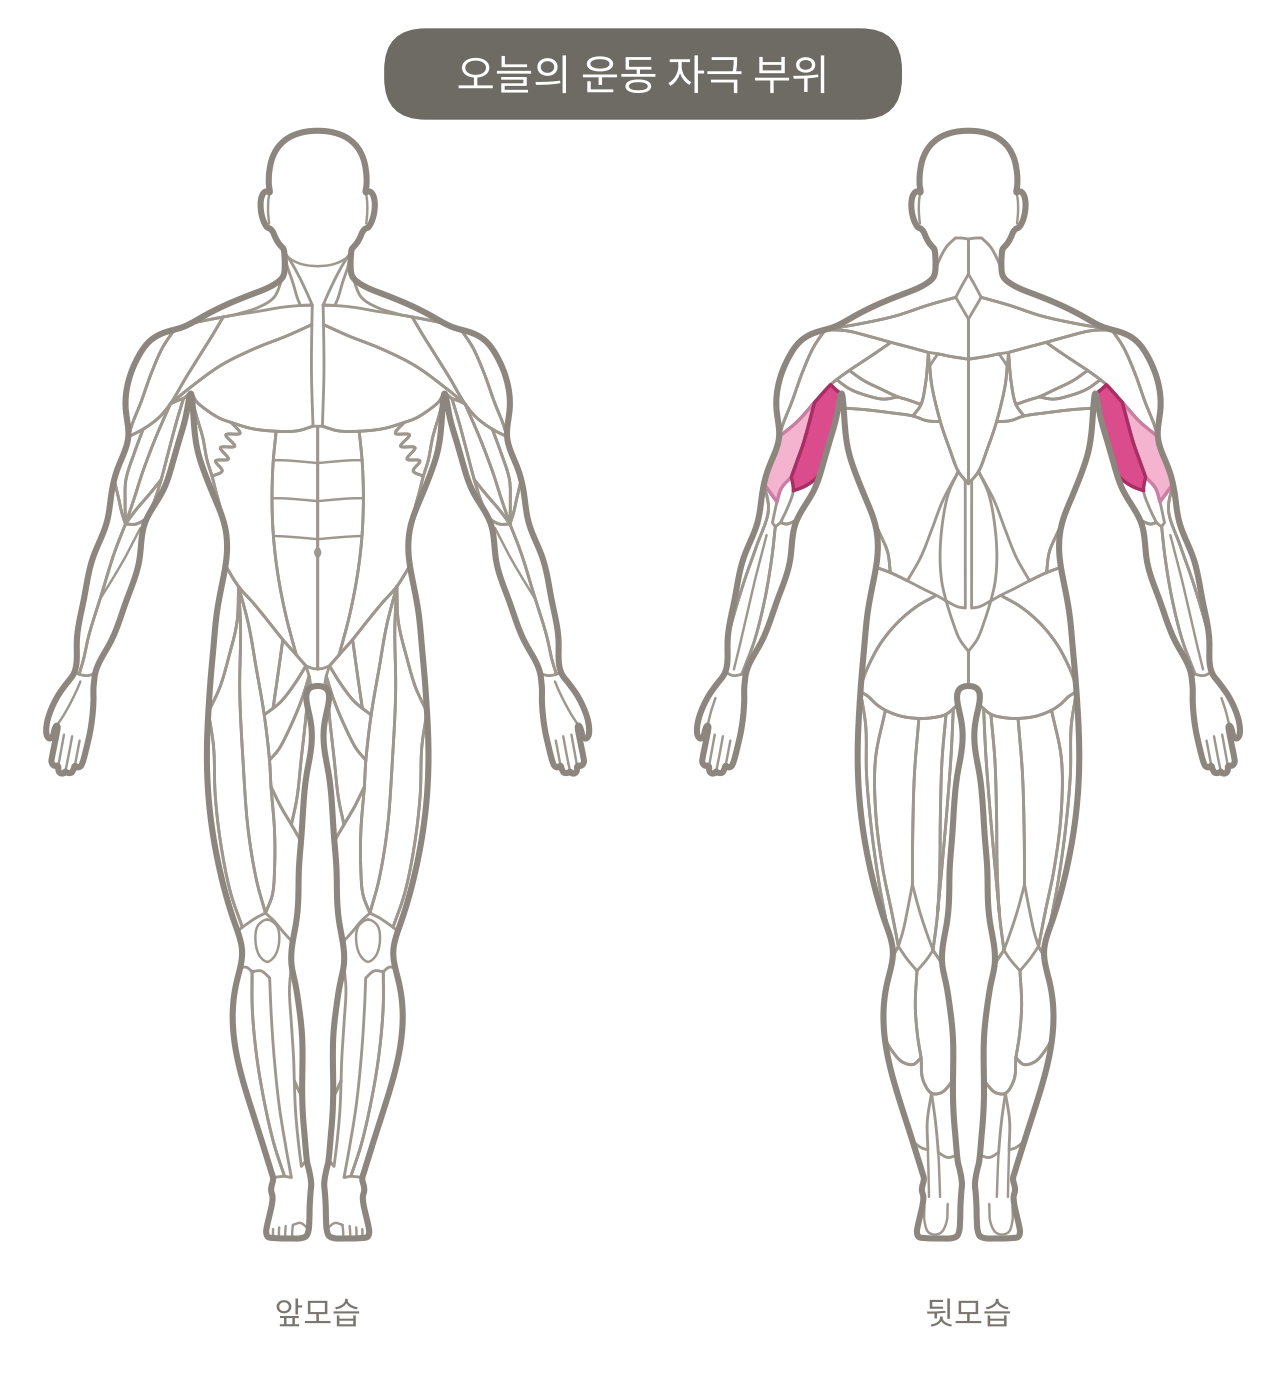
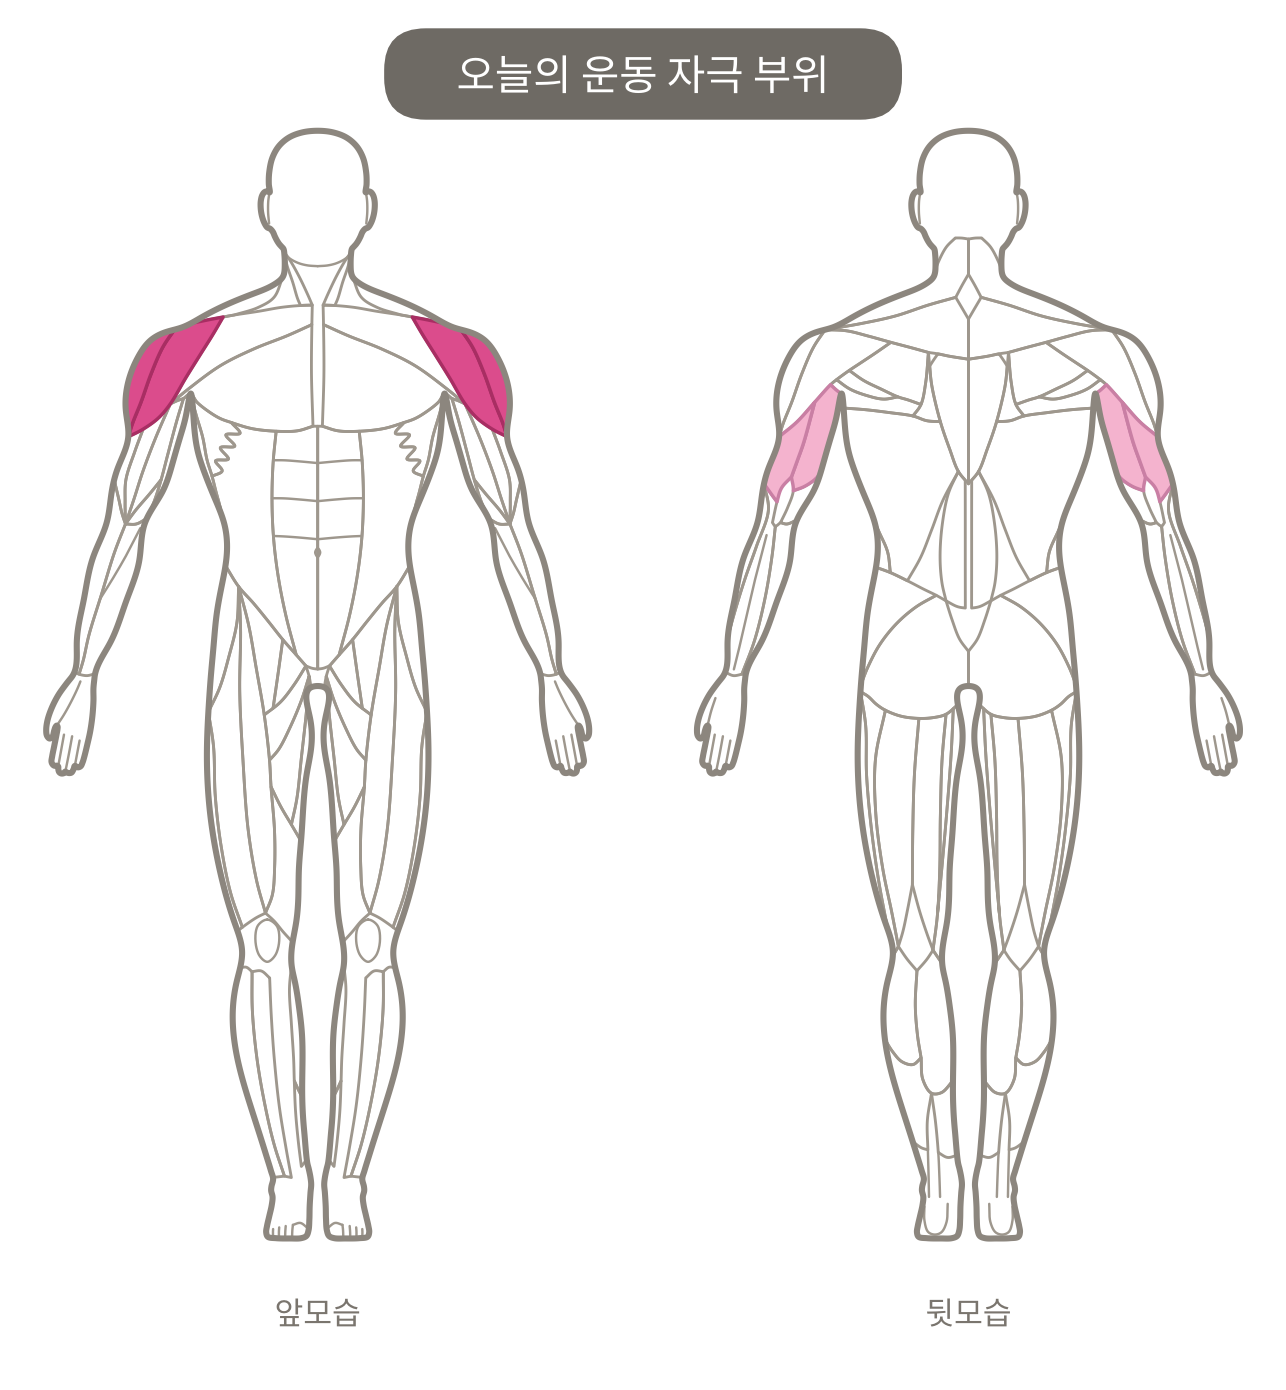
이주찬 복습지 정정: 바이킹 프레스 · 덤벨 숄더 프레스 (등받이 없이)
Claude-Session: https://claude.ai/code/session_01S3U5RXuDXZvftW9TPcVpES

diff --git a/m/5d7jxs37/data.js b/m/5d7jxs37/data.js
@@ -12,7 +12,7 @@ window.MEMBER = {
     {
       "date": "2026. 11. 26",
       "title": "자세 복습지 3개가 올라왔어요",
-      "body": "오늘 수업한 리버스 펙덱 플라이 · 케이블 오버헤드 익스텐션 · 덤벨 숄더 프레스 자세를 영상으로 다시 보고 따라 해 보세요",
+      "body": "오늘 수업한 리버스 펙덱 플라이 · 바이킹 프레스 · 덤벨 숄더 프레스 (등받이 없이) 자세를 영상으로 다시 보고 따라 해 보세요",
       "link": "#forms"
     },
     {
@@ -117,77 +117,77 @@ window.MEMBER = {
       "id": "f1126b",
       "dir": "media/form-f1126b/",
       "date": "2026. 11. 26",
-      "exercise": "케이블 오버헤드 익스텐션",
-      "exercise_en": "Cable Overhead Extension",
-      "part": "팔",
+      "exercise": "바이킹 프레스",
+      "exercise_en": "Viking Press",
+      "part": "어깨",
       "targets": [
-        "삼두 긴 머리",
-        "팔 뒤 라인",
-        "미는 힘"
+        "어깨 앞·옆",
+        "어깨 안정",
+        "상체 힘"
       ],
-      "benefit": "케이블을 등지고 머리 위로 팔을 펴서 삼두를 길게 늘였다가 끝까지 조여요",
-      "key_point": "팔꿈치는 귀 옆에 고정! 팔꿈치 아래만 움직여 머리 위로 쭉 펴고, 돌아올 땐 천천히",
+      "benefit": "손잡이가 정해진 길로 움직여서 어깨에 부담은 적게, 무게는 안정적으로 머리 위로 밀 수 있어요",
+      "key_point": "배에 힘 주고 서서, 손잡이를 귀 옆에서 머리 위로! 허리 꺾지 않아요",
       "good_points": [
         {
-          "title": "팔꿈치를 모았어요",
-          "desc": "팔꿈치가 옆으로 벌어지지 않고 귀 옆에 있어서 팔 뒤에 잘 들어갔어요"
+          "title": "몸통을 꽉 잡았어요",
+          "desc": "밀 때 허리가 뒤로 꺾이지 않고 몸이 곧게 서 있었어요"
         },
         {
-          "title": "끝까지 폈어요",
-          "desc": "머리 위로 팔을 쭉 펴서 삼두가 꽉 조였어요"
+          "title": "끝까지 밀었어요",
+          "desc": "팔을 머리 위로 다 펴서 어깨를 끝까지 썼어요"
         },
         {
-          "title": "몸을 고정했어요",
-          "desc": "허리를 꺾거나 몸으로 밀지 않고 팔로만 폈어요"
+          "title": "천천히 내렸어요",
+          "desc": "내릴 때 무게에 끌려가지 않고 버티면서 내렸어요"
         }
       ],
       "primary_muscles": [
         {
-          "name": "삼두 긴 머리",
-          "where": "팔 뒤 · 겨드랑이 쪽"
+          "name": "전면 · 측면 삼각근",
+          "where": "어깨 앞 · 옆"
         }
       ],
-      "secondary_muscles": "삼두 바깥쪽",
-      "feel_good": "팔 뒤가 쭉 늘어났다가 꽉 조이면 성공이에요",
-      "feel_stop": "팔꿈치나 어깨가 아프면 멈추고 선생님께 말해 주세요",
+      "secondary_muscles": "삼두(팔 뒤) · 승모근 위",
+      "feel_good": "어깨 앞·옆이 뻐근해지면 성공이에요",
+      "feel_stop": "어깨 안쪽이 찌릿하거나 허리가 아프면 멈추고 선생님께 말해 주세요",
       "steps": [
         {
           "title": "자리 잡기",
-          "desc": "케이블을 등지고 서서 로프를 머리 뒤에서 잡아요. 한 발 앞으로, 배에 힘!",
+          "desc": "발은 골반 너비로 서서 손잡이를 귀 옆에서 잡아요. 배에 힘!",
           "chip": "숨 편하게",
           "media": "step1.jpg"
         },
         {
-          "title": "머리 위로 펴기",
-          "desc": "팔꿈치는 귀 옆에 둔 채 팔을 머리 위·앞으로 쭉 펴요",
-          "chip": "펼 때 후-",
+          "title": "머리 위로 밀기",
+          "desc": "손잡이를 머리 위로 쭉 밀어 올려요",
+          "chip": "밀 때 후-",
           "media": "step2.webp",
           "loop": true
         },
         {
-          "title": "천천히 돌아오기",
-          "desc": "2~3초 동안 팔 뒤가 늘어나게 천천히 접어요",
-          "chip": "돌아올 때 들이마시기",
+          "title": "천천히 내리기",
+          "desc": "2~3초 동안 귀 옆까지 천천히 내려요",
+          "chip": "내릴 때 들이마시기",
           "media": "step3.webp",
           "loop": true
         }
       ],
       "do": [
-        "팔꿈치 귀 옆 고정",
-        "끝까지 펴기",
-        "배에 힘 주기"
+        "배에 힘 주고 곧게 서기",
+        "귀 옆에서 시작",
+        "팔 끝까지 펴기"
       ],
       "dont": [
-        "팔꿈치 벌리기",
-        "허리 꺾기",
-        "몸으로 밀기"
+        "허리 뒤로 꺾기",
+        "무릎 반동 쓰기",
+        "어깨 으쓱하기"
       ]
     },
     {
       "id": "f1126c",
       "dir": "media/form-f1126c/",
       "date": "2026. 11. 26",
-      "exercise": "덤벨 숄더 프레스",
+      "exercise": "덤벨 숄더 프레스 (등받이 없이)",
       "exercise_en": "DB Shoulder Press",
       "part": "어깨",
       "targets": [
@@ -196,11 +196,11 @@ window.MEMBER = {
         "상체 힘"
       ],
       "benefit": "어깨 전체를 키워서 어깨 라인을 예쁘게 잡아 주고, 물건을 머리 위로 드는 힘도 길러요",
-      "key_point": "등은 등받이에 붙이고, 덤벨은 귀 옆에서 시작해 머리 위로! 허리는 꺾지 않아요",
+      "key_point": "등받이 없이 앉아 배에 힘 꽉! 상체를 세운 채 덤벨을 귀 옆에서 머리 위로 밀어요",
       "good_points": [
         {
-          "title": "등을 등받이에 붙였어요",
-          "desc": "밀 때 허리가 뜨지 않고 등받이에 붙어 있었어요"
+          "title": "상체를 곧게 세웠어요",
+          "desc": "등받이 없이도 허리가 뒤로 꺾이지 않고 몸통을 단단히 잡았어요"
         },
         {
           "title": "귀 옆에서 밀었어요",
@@ -223,7 +223,7 @@ window.MEMBER = {
       "steps": [
         {
           "title": "자리 잡기",
-          "desc": "등받이를 세운 벤치에 앉아 등을 붙여요. 덤벨은 귀 옆에, 팔꿈치는 몸보다 살짝 앞으로",
+          "desc": "등받이 없는 벤치에 앉아 배에 힘을 주고 상체를 세워요. 덤벨은 귀 옆에, 팔꿈치는 몸보다 살짝 앞으로",
           "chip": "배에 힘",
           "media": "step1.jpg"
         },
@@ -236,14 +236,14 @@ window.MEMBER = {
         },
         {
           "title": "천천히 내리기",
-          "desc": "2~3초 동안 천천히 귀 높이까지 내려요. 등은 계속 등받이에",
+          "desc": "2~3초 동안 천천히 귀 높이까지 내려요. 상체는 계속 곧게",
           "chip": "내릴 때 들이마시기",
           "media": "step3.webp",
           "loop": true
         }
       ],
       "do": [
-        "등은 등받이에 붙이기",
+        "배에 힘 주고 상체 세우기",
         "덤벨은 귀 옆에서 시작",
         "내릴 때 2~3초 천천히"
       ],
